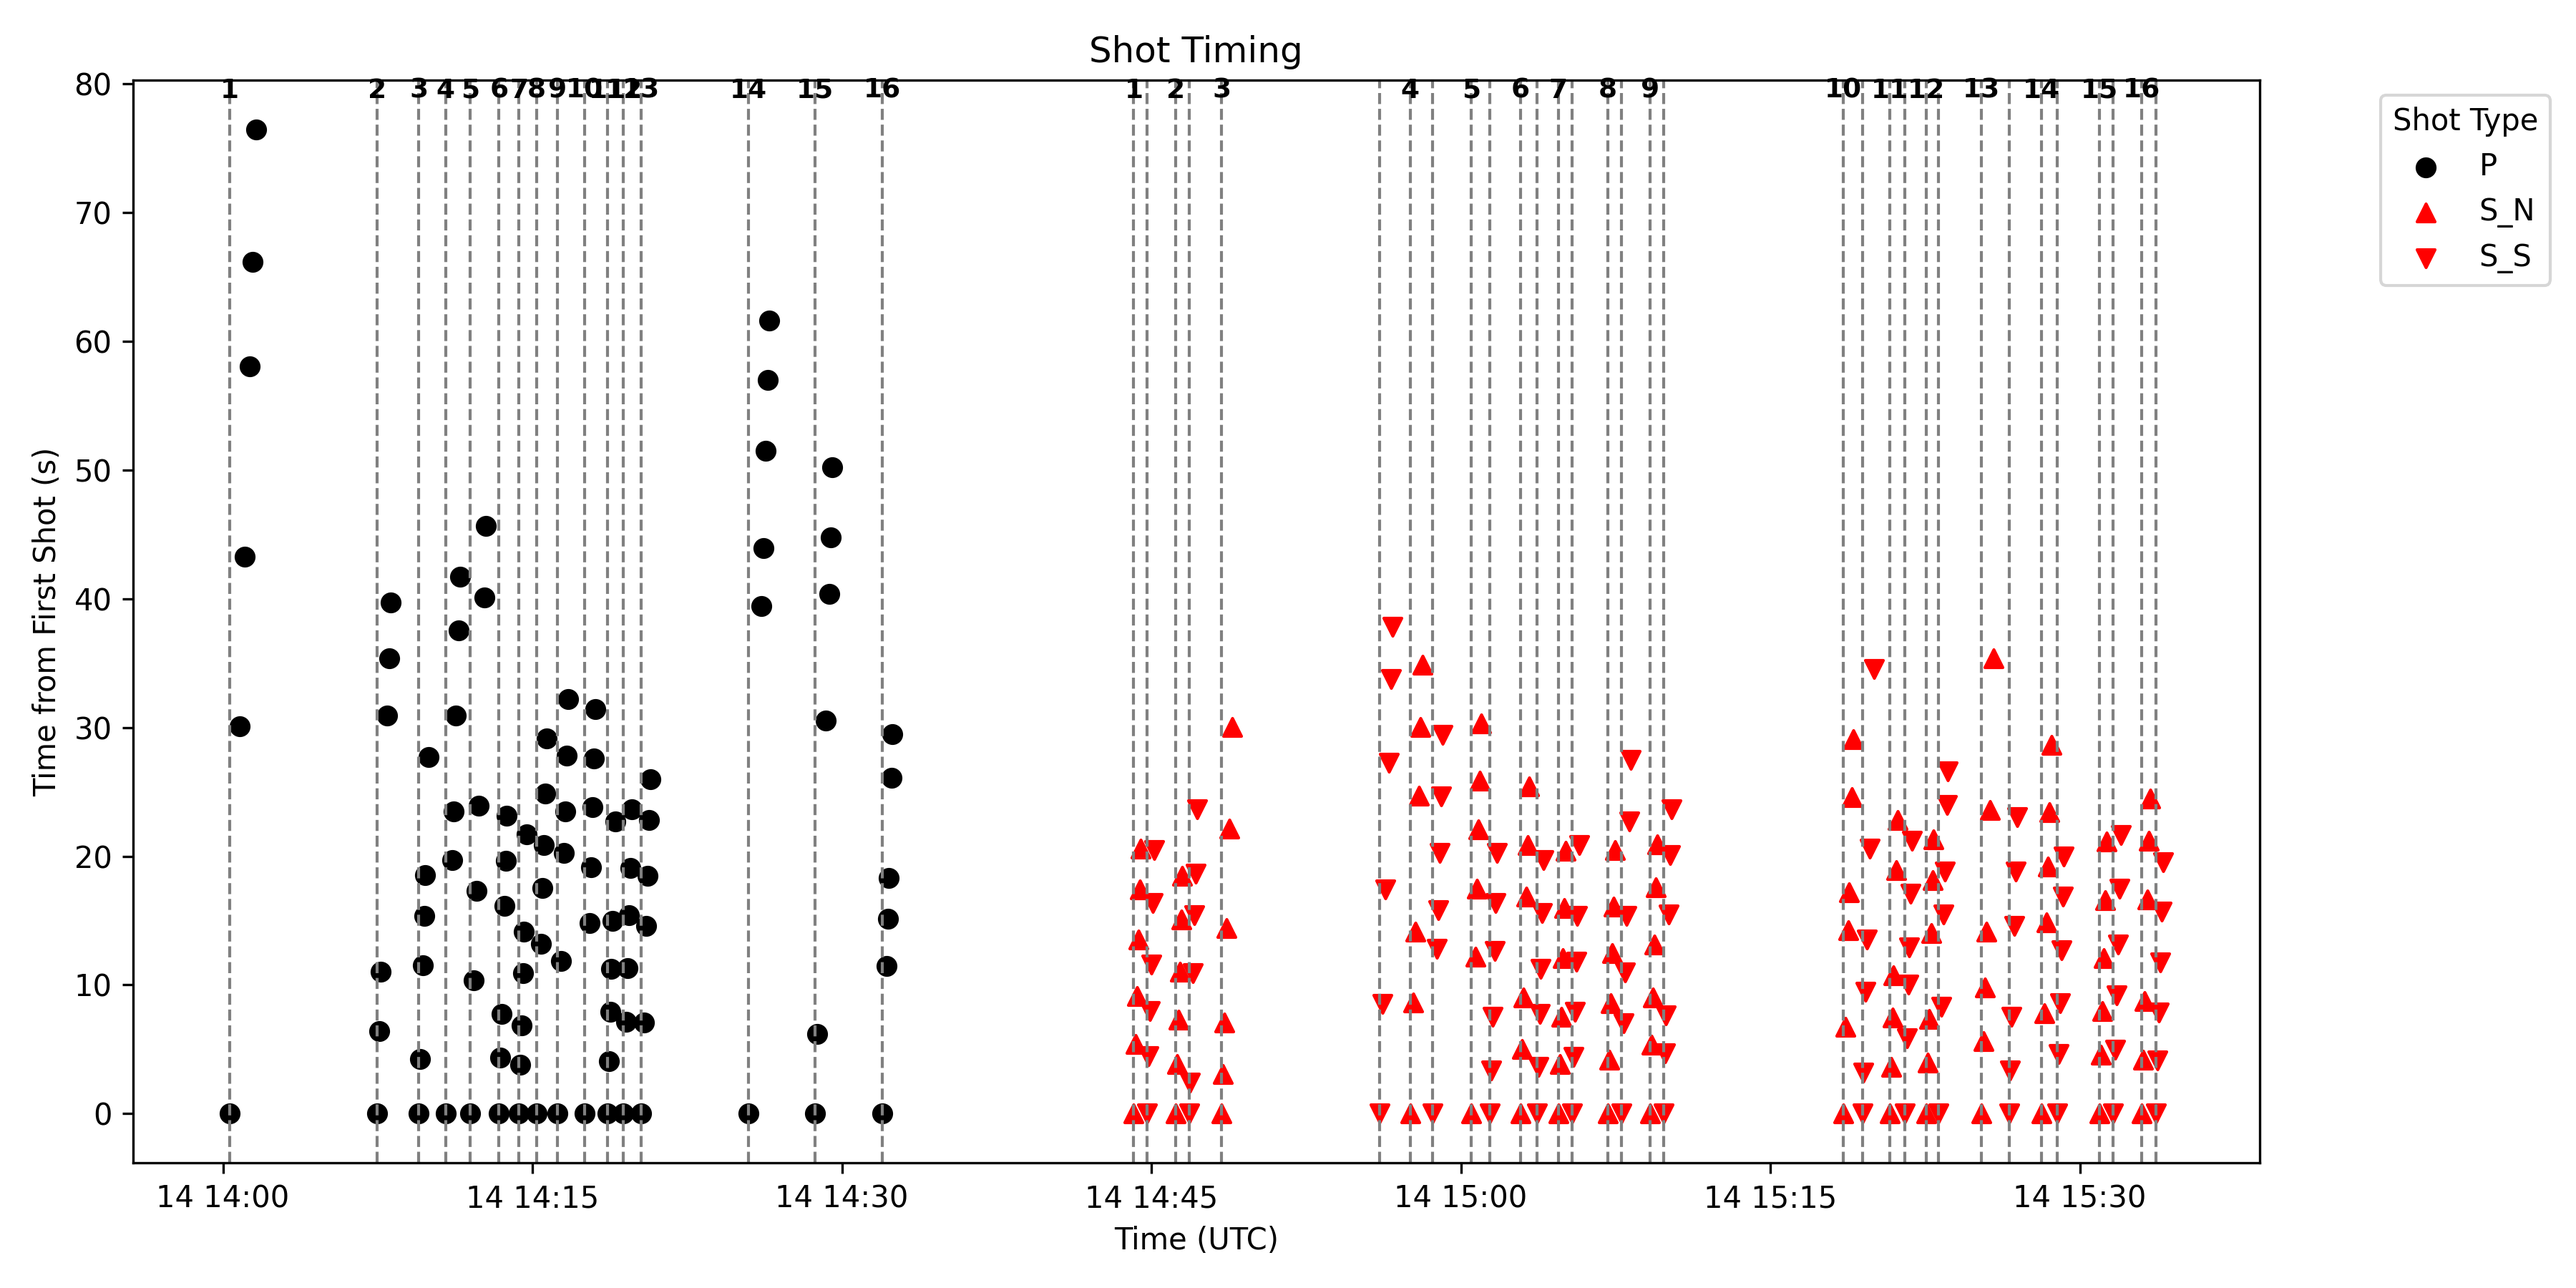
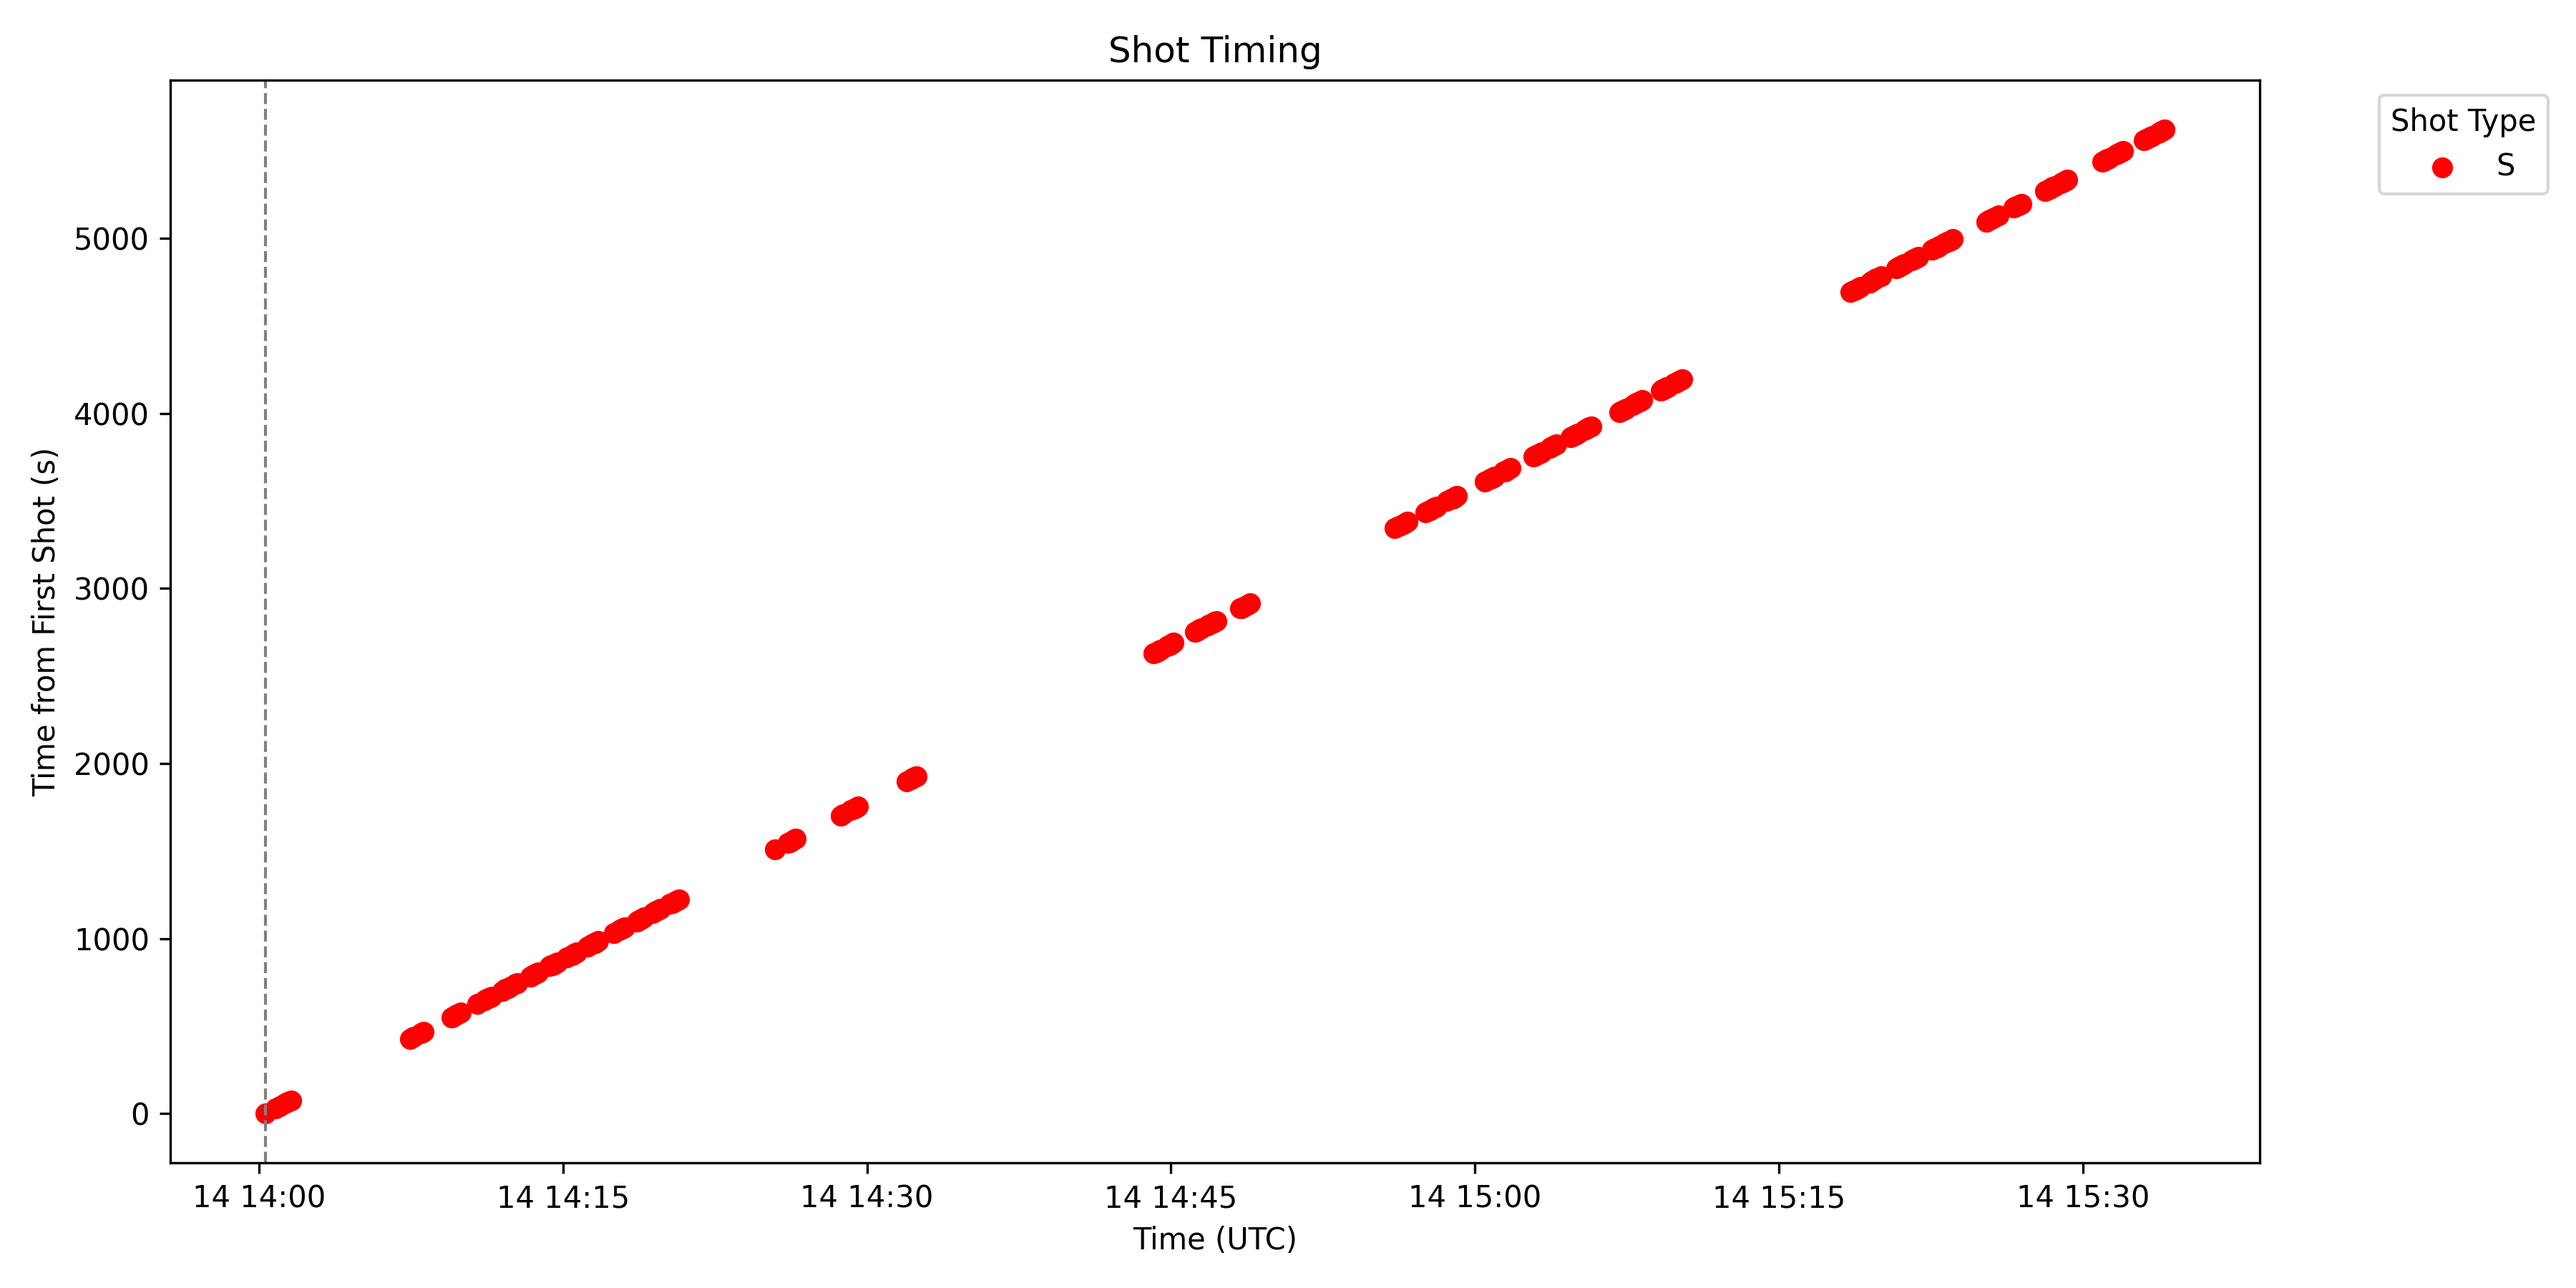
seismic

diff --git a/fc2/seismic.py b/fc2/seismic.py
@@ -357,11 +357,15 @@ def read_shots(shots, gps_start=None, source_time_separation=1e6,debug=False):
                        
             if debug:
                 print(group)
-            
-        # Concatenate all selected groups
-        gd_shots = pd.concat(selected_shots).reset_index(drop=True)
-        # print(gd_shots)
-        bad_shots = shots[~shots.index.isin(gd_shots.index)]
+                
+        if not selected_shots:
+            gd_shots = pd.DataFrame(columns=shots.columns)
+            bad_shots = shots.copy()
+        else:    
+            # Concatenate all selected groups
+            gd_shots = pd.concat(selected_shots).reset_index(drop=True)
+            # print(gd_shots)
+            bad_shots = shots[~shots.index.isin(gd_shots.index)]
         
         
         if not bad_shots.empty:
@@ -407,7 +411,7 @@ def merge_shots(shots_list: List[pd.DataFrame]) -> pd.DataFrame:
     merged_shots.reset_index(drop=True, inplace=True)
     return merged_shots
 
-def read_shots_from_folder(folder_path: str, gps_start=None, source_time_separation=1e6, 
+def read_shots_from_folder(folder_path: str, gps_start=None, source_time_separation=None, 
                            bad_shots=None,debug=False) -> pd.DataFrame:
     """
     Reads all shot files in a specified folder and merges them into a single DataFrame.
@@ -419,6 +423,7 @@ def read_shots_from_folder(folder_path: str, gps_start=None, source_time_separat
         The GPS epoch start time. If None, defaults to January 6, 1980.
     source_time_separation : dict
         The maximum time separation between shots to consider them part of the same group (in seconds).
+        example: {"P1": 76.45, "S1_N": 21, ...}
     bad_shots : list or None
         A list of shot groups to exclude from the final DataFrame. If None, all shots are included.
     debug : bool
@@ -428,6 +433,9 @@ def read_shots_from_folder(folder_path: str, gps_start=None, source_time_separat
     pd.DataFrame
         A DataFrame containing all shots, sorted by time.
     """
+    if source_time_separation is None:
+        source_time_separation = {}
+    
     if not os.path.isdir(folder_path):
         raise ValueError(f"The provided folder path '{folder_path}' is not a valid directory.")
     shot_files = glob.glob(os.path.join(folder_path, "*.csv"))
@@ -444,7 +452,6 @@ def read_shots_from_folder(folder_path: str, gps_start=None, source_time_separat
     if not shots_list:
         raise ValueError("No valid shot files found in the specified folder.")
     merged_shots = merge_shots(shots_list)
-    
     if bad_shots is not None:
         gd_shots = merged_shots[~merged_shots['shot'].isin(bad_shots)]
     else:
@@ -459,9 +466,6 @@ def read_shots_from_folder(folder_path: str, gps_start=None, source_time_separat
                               source_time_separation=source_time_separation,
                               debug=debug)
     return merged_shots
-
-import pandas as pd
-import matplotlib.pyplot as plt
 
 
 def plot_shot_data(df, save_path=None, show=True):
@@ -625,7 +629,7 @@ if __name__ == "__main__":
                             }
     
     shots = read_shots_from_folder(solo_folder, 
-                           source_time_separation=source_time_separation, 
+                        #    source_time_separation=source_time_separation, 
                            bad_shots=[181,182],
                            debug=True)
     
